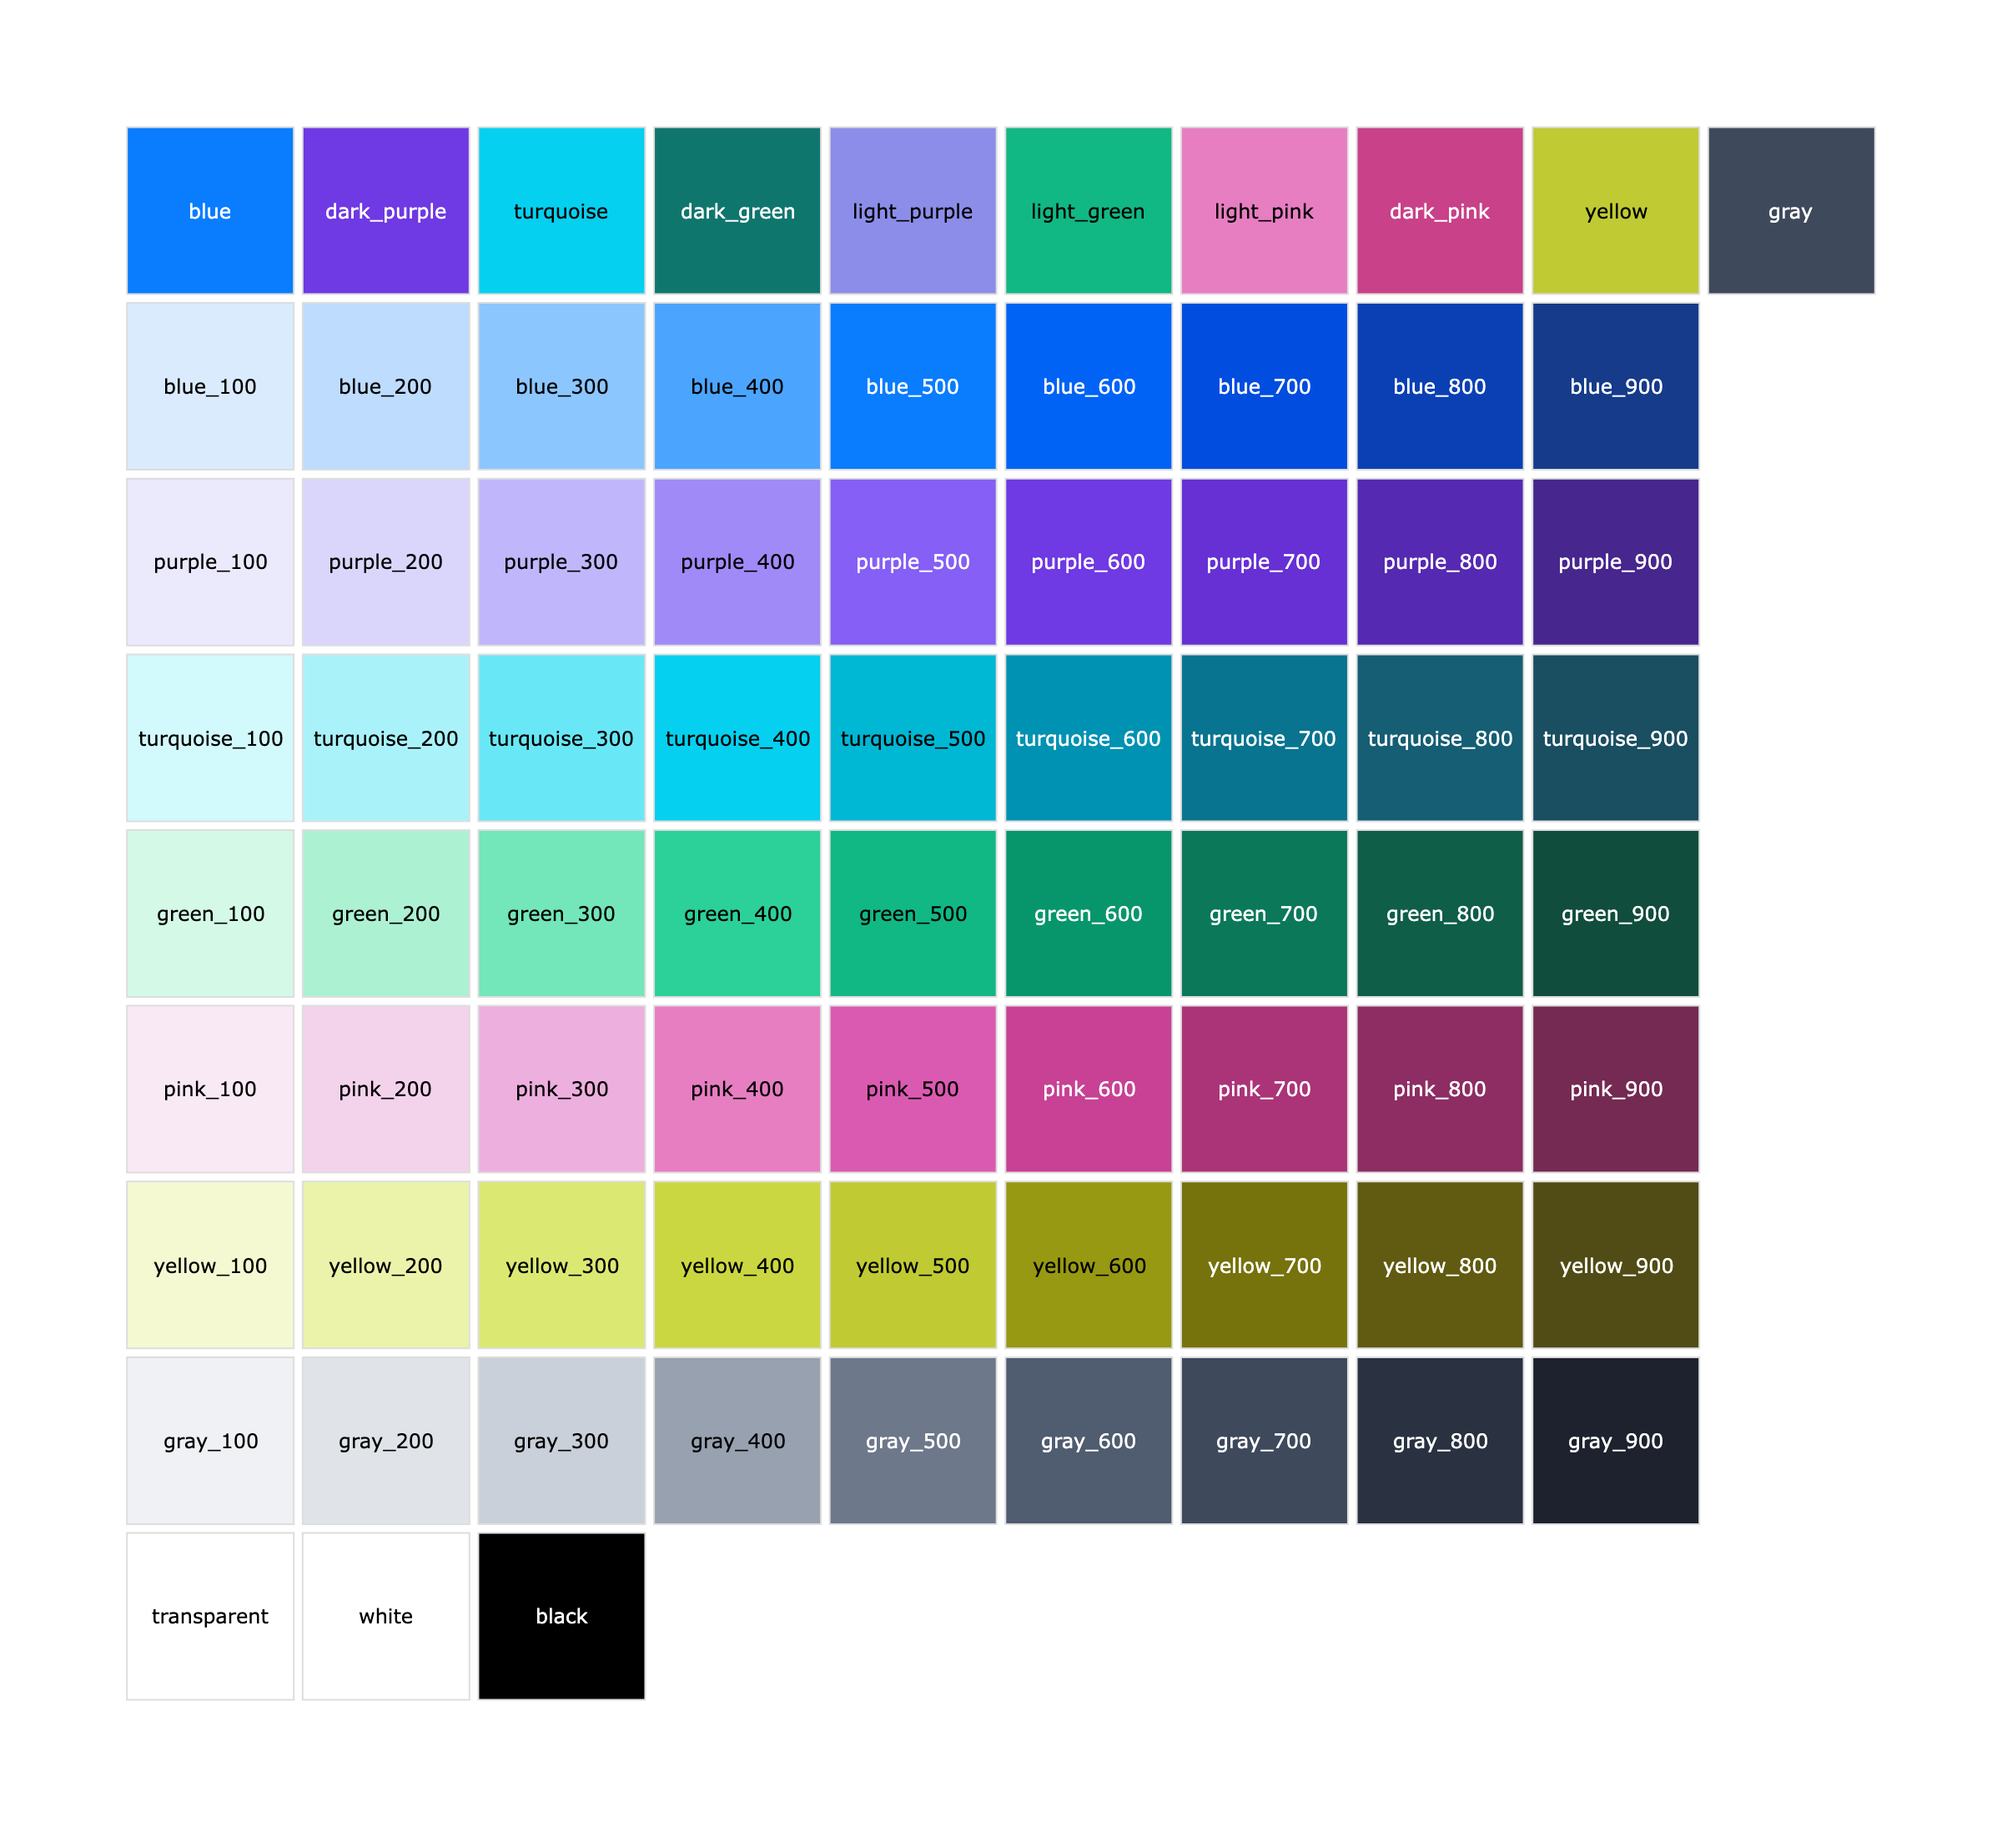
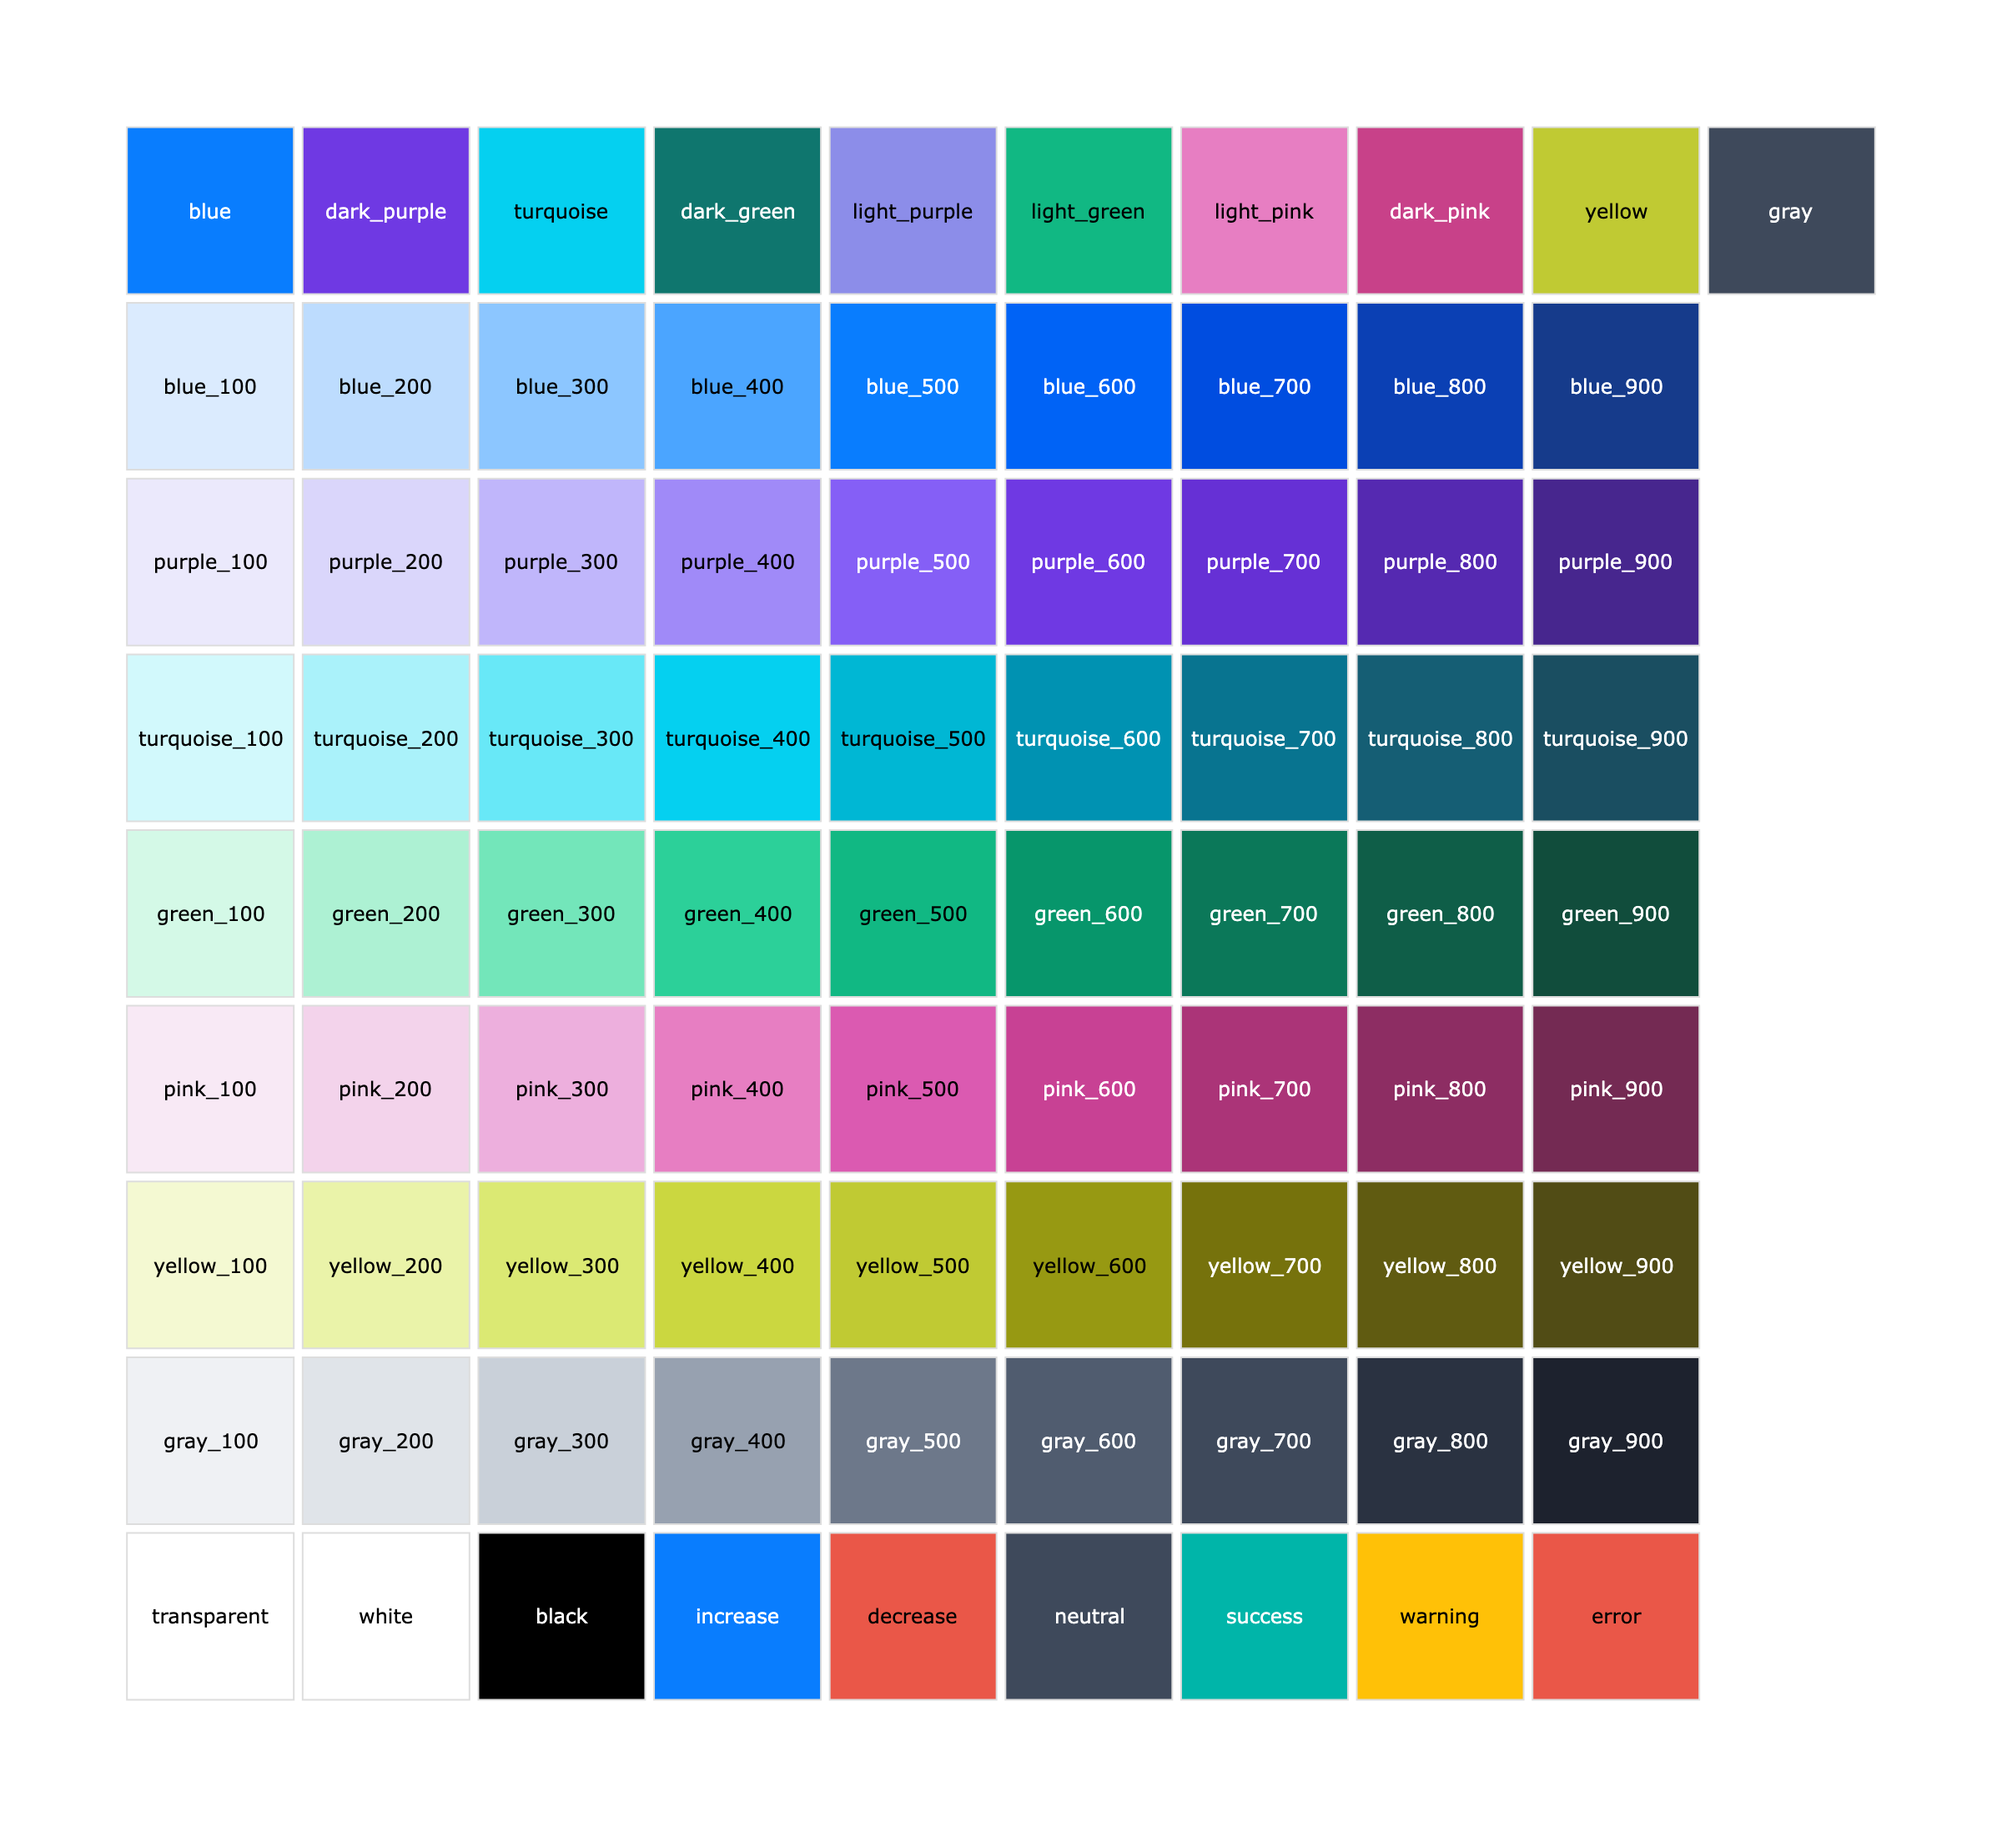
Update color images

Changed region(s): [[0.3125, 0.8384, 0.875, 0.9315]]

diff --git a/vizro-core/tools/generate_docs_images.py b/vizro-core/tools/generate_docs_images.py
@@ -97,7 +97,7 @@ def generate_colors_image(output_path):
         "Pink": [f"pink_{i}00" for i in range(1, 10)],
         "Yellow": [f"yellow_{i}00" for i in range(1, 10)],
         "Grey": [f"gray_{i}00" for i in range(1, 10)],
-        "Special": ["transparent", "white", "black"],
+        "Special": ["transparent", "white", "black", "increase", "decrease", "neutral", "success", "warning", "error"],
     }
 
     labels = [name for group in color_groups.values() for name in group]
